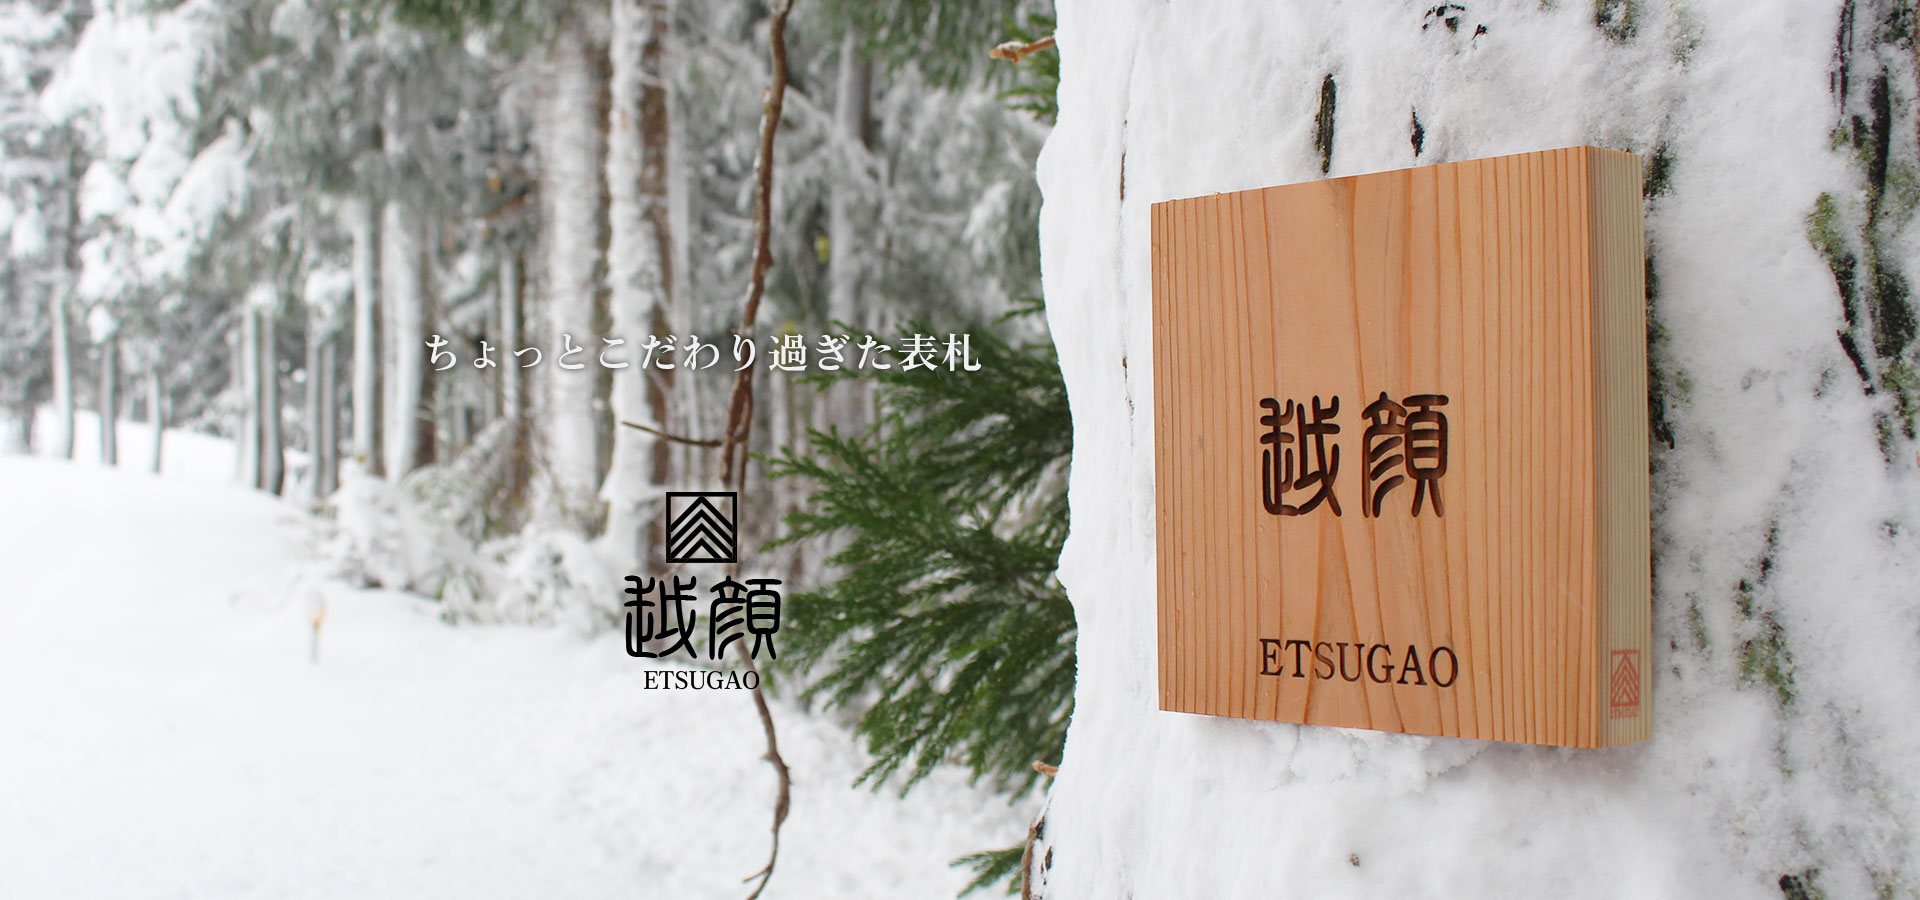
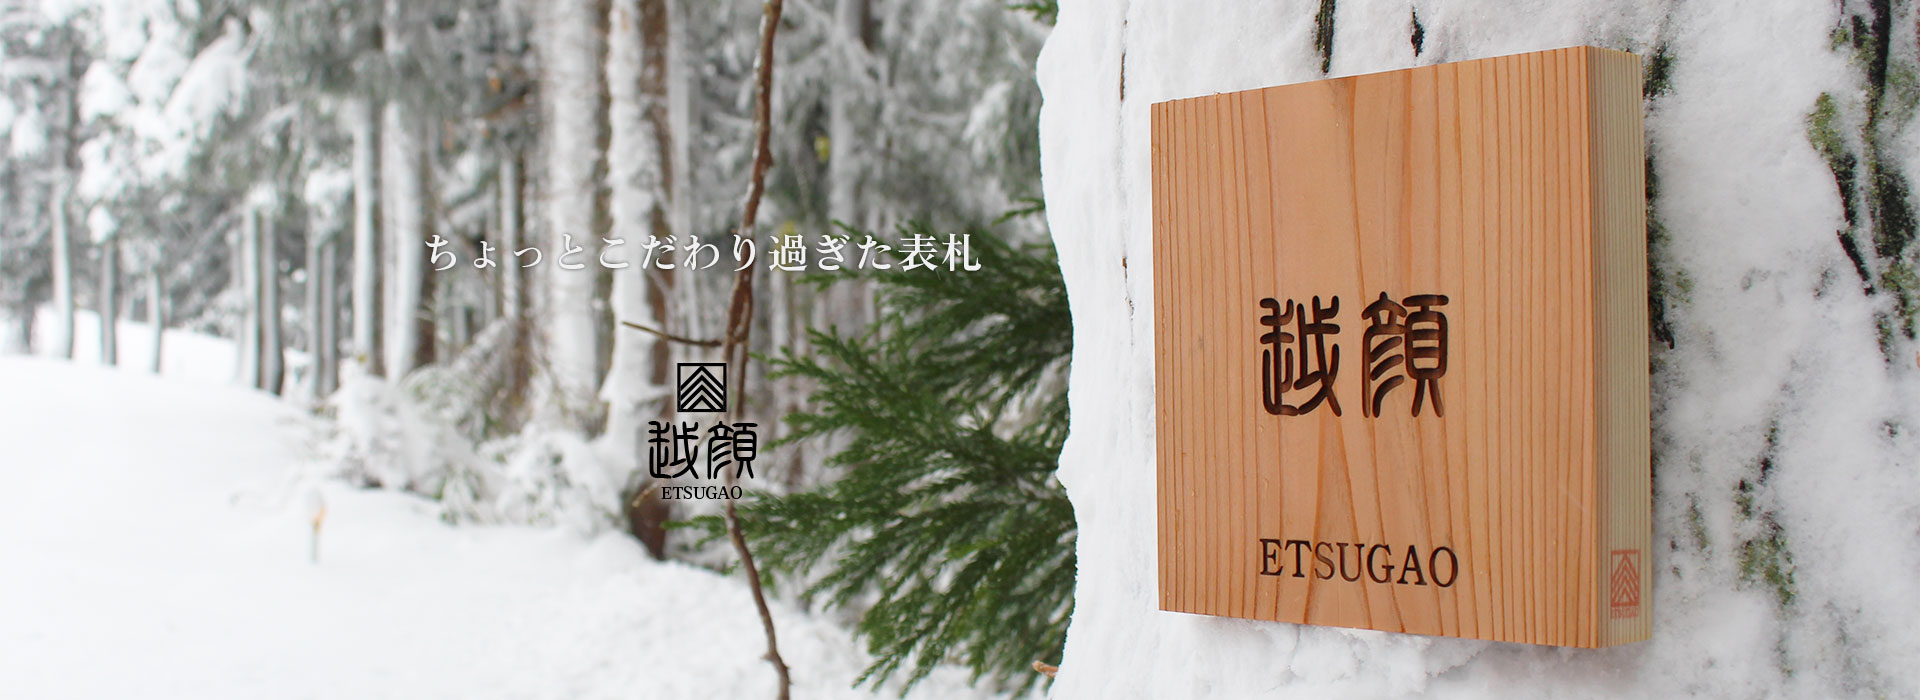
change img height 900 -> 700

diff --git a/pc/css/product.css b/pc/css/product.css
@@ -28,14 +28,14 @@ width: 1000px;
 /* ---------- フルスクリーン ---------- */
 #product-FullWrap {
     width: 100%;
-    height: 900px;
+    height: 700px;
     text-align: center;
     margin-top: -10px;
 }
 
 #product-FullWrap img {
     width: 100%;
-    height: 900px;
+    height: 700px;
     object-fit: cover;
 }
 
